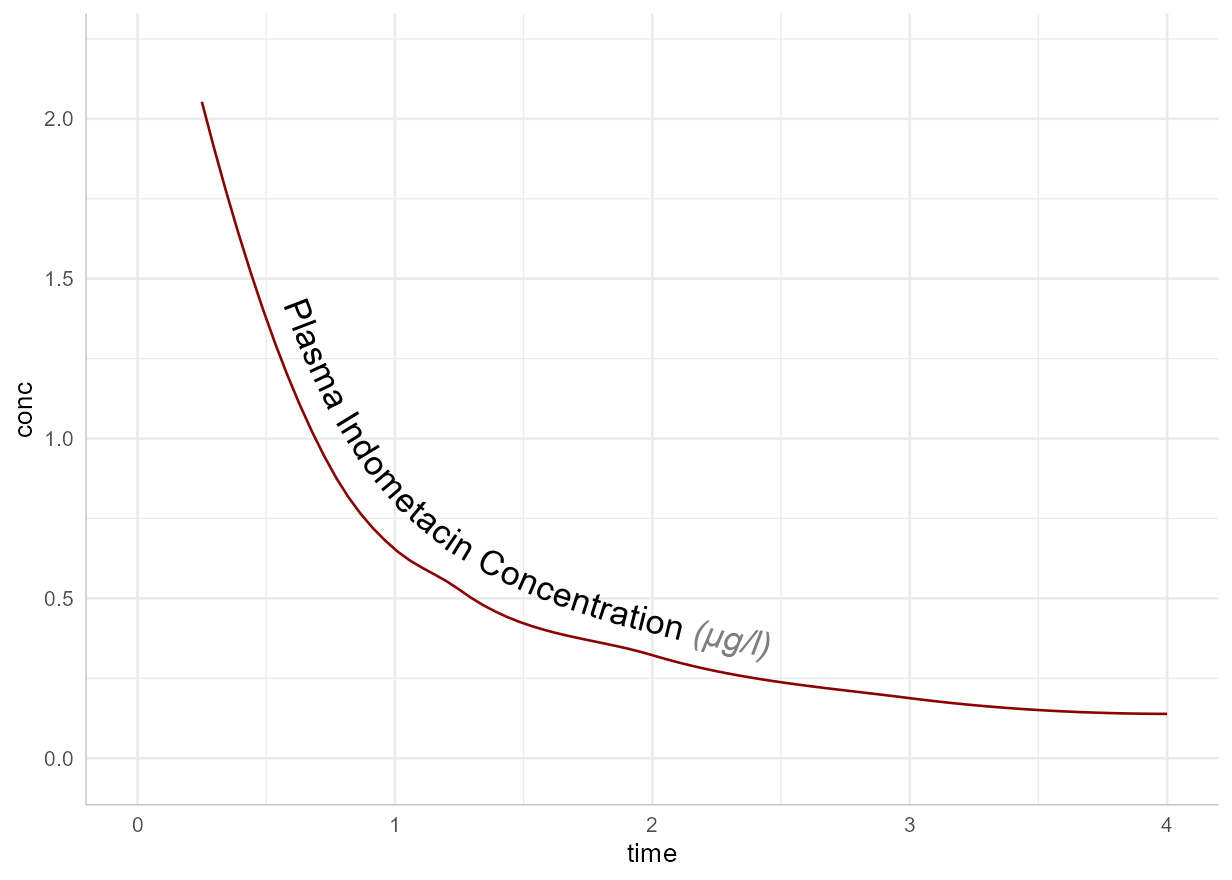
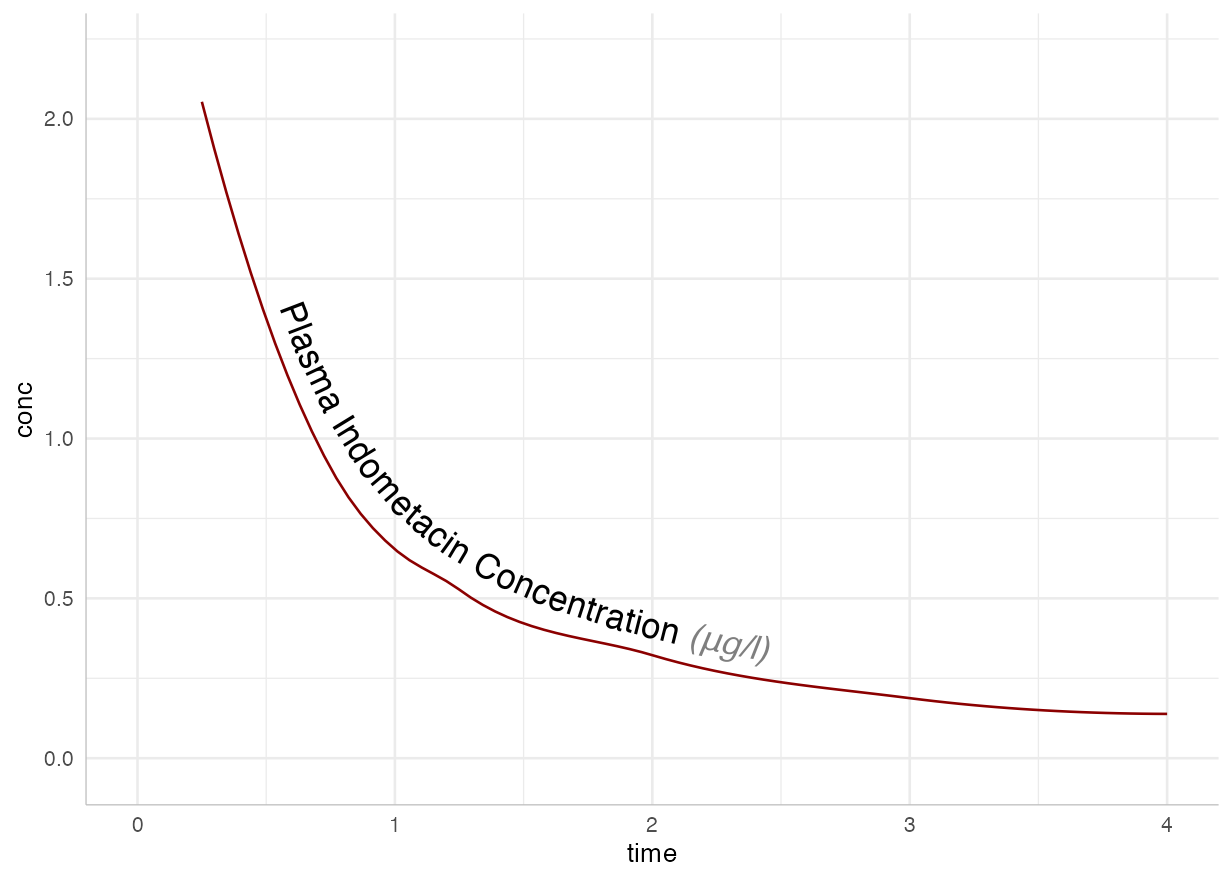
Re-build README.Rmd

Changed region(s): [[0.2159, 0.3375, 0.6169, 0.767]]

diff --git a/README.md b/README.md
@@ -315,6 +315,26 @@ all plotmath labels will be straight rather than curved. However, as in
 the example above, they will still be angled according to the gradient
 of the curve.
 
+### Rich text support
+
+The geoms here also feature richtext support. If you want your text
+labels to be interpreted as rich text, simply pass `rich = TRUE` as a
+parameter in the call to the geom layer
+
+``` r
+
+lab <- "Plasma Indometacin Concentration <i style='color:gray50'>(\u03BCg/l)</i>"
+
+ggplot(Indometh, aes(time, conc, group = 1)) + 
+  geom_textsmooth(formula = y ~ x, method = loess, 
+                  label = lab, rich = TRUE, vjust = -0.5, size = 5, 
+                  text_smoothing = 99, linecolor = "red4") + 
+  xlim(c(0, 4))
+#> Warning: Removed 18 rows containing non-finite values (stat_smooth).
+```
+
+<img src="man/figures/README-richtext-1.png" width="100%" style="display: block; margin: auto;" />
+
 ### Text paths in polar coordinates
 
 Straight text paths in Cartesian coordinates become curved in polar
